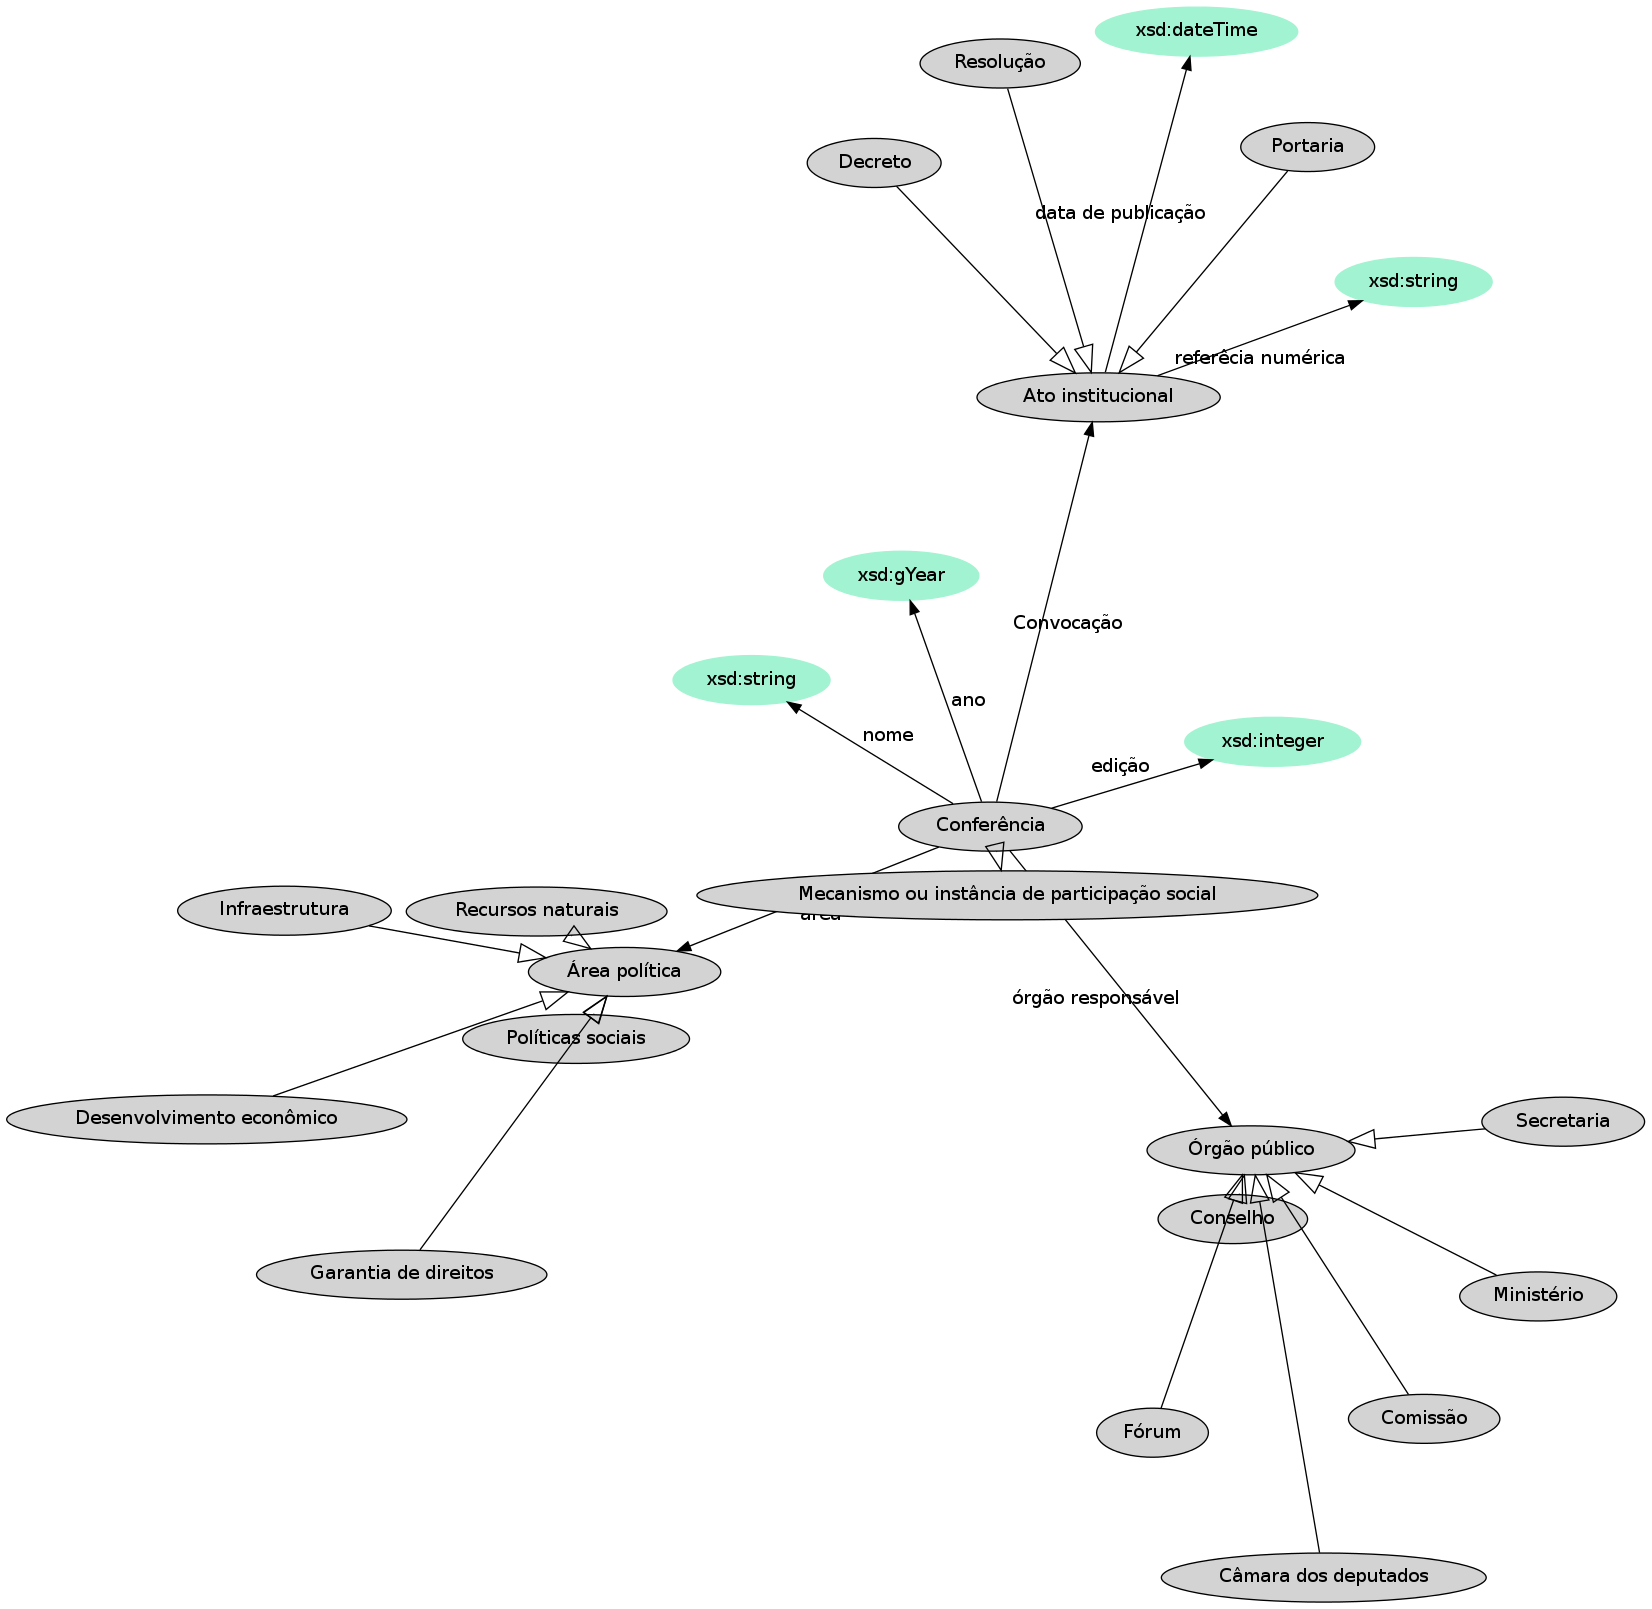
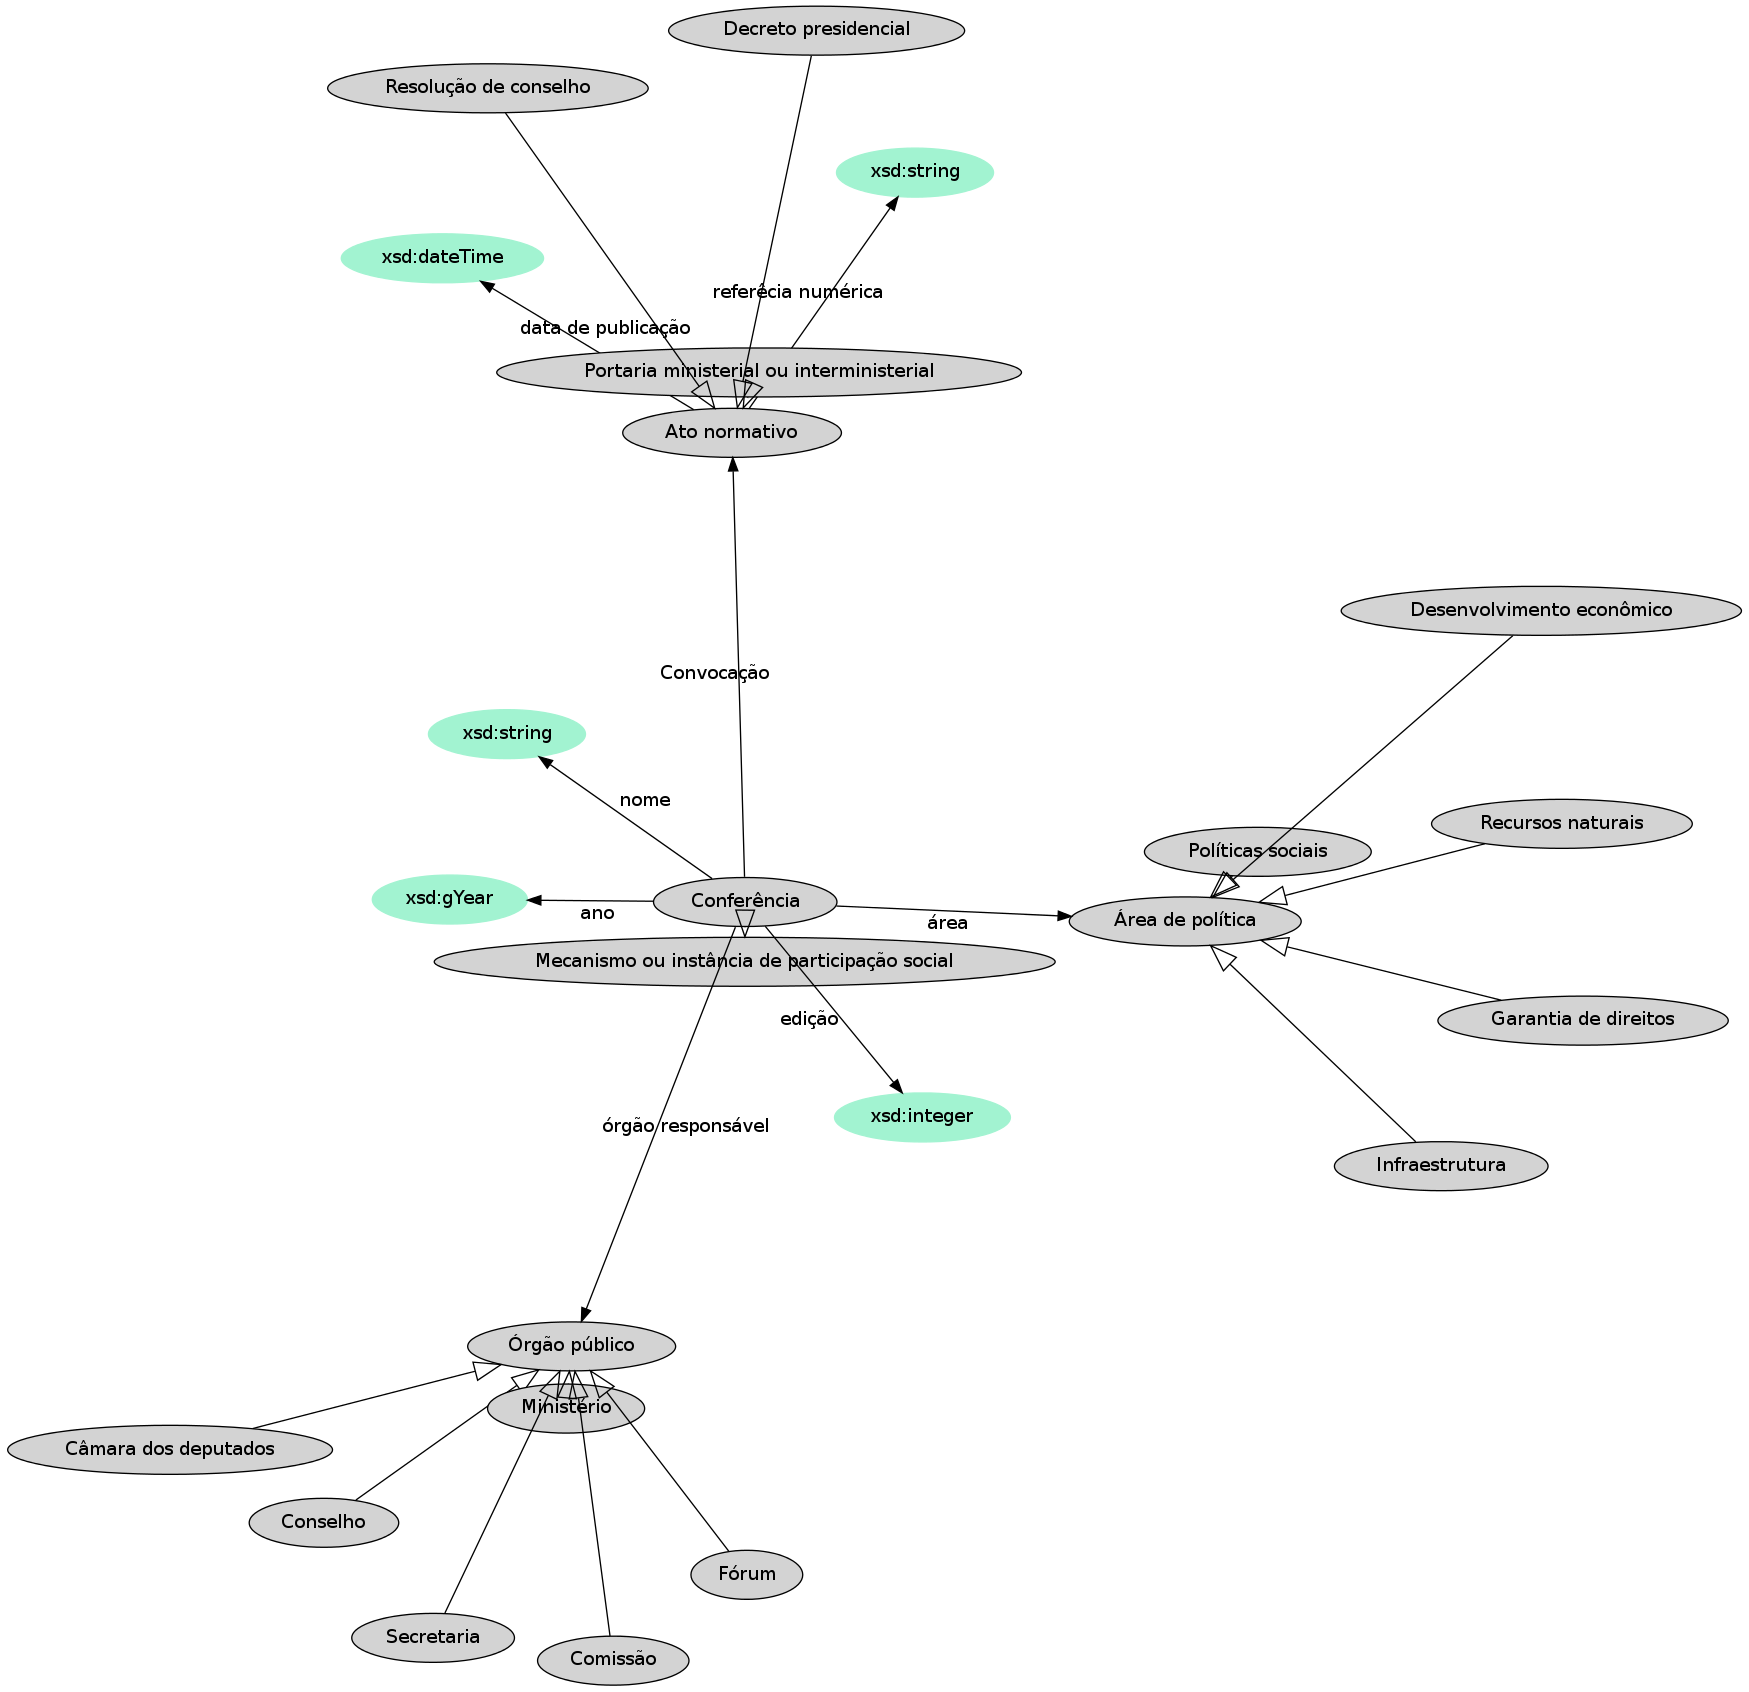
atualizando

diff --git a/scripts/obsConferencias.py b/scripts/obsConferencias.py
@@ -169,7 +169,7 @@ e.attr["arrowsize"]=2
 ca=obs.convocation
 lca=u"Convocação"
 ac=obs.Act
-lac=u"Ato institucional" # SKOS Ato Institucional
+lac=u"Ato normativo" # SKOS Ato Institucional
 
 pu=obs.datePublished
 lpu=u"data de publicação"
@@ -179,13 +179,13 @@ lnr=u"referêcia numérica"
 #la=obs.Law
 #lla=u"Lei" # SKOS
 oe=obs.Ordinance
-loe=u"Portaria" # SKOS
+loe=u"Portaria ministerial ou interministerial" # SKOS
 de=obs.Decree
-lde=u"Decreto" # SKOS
+lde=u"Decreto presidencial" # SKOS
 #bl=obs.Bylaws
 #lbl=u"Regimento interno" #SKOS
 re=obs.Resolution
-lre=u"Resolução" #SKOS
+lre=u"Resolução de conselho" #SKOS
 
 G(ca,rdf.type,owl.ObjectProperty)
 G(ca,rdfs.label,L(lca,lang="pt"))
@@ -255,7 +255,7 @@ e.attr["label"]=lnr
 ta=obs.area
 lta=u"área" # SKOS
 th=obs.PolicyArea
-lth=u"Área política"
+lth=u"Área de política"
 G(ta,rdf.type,owl.ObjectProperty)
 G(ta,rdfs.label,L(lta,lang="pt"))
 G(ta,rdfs.range,th)
